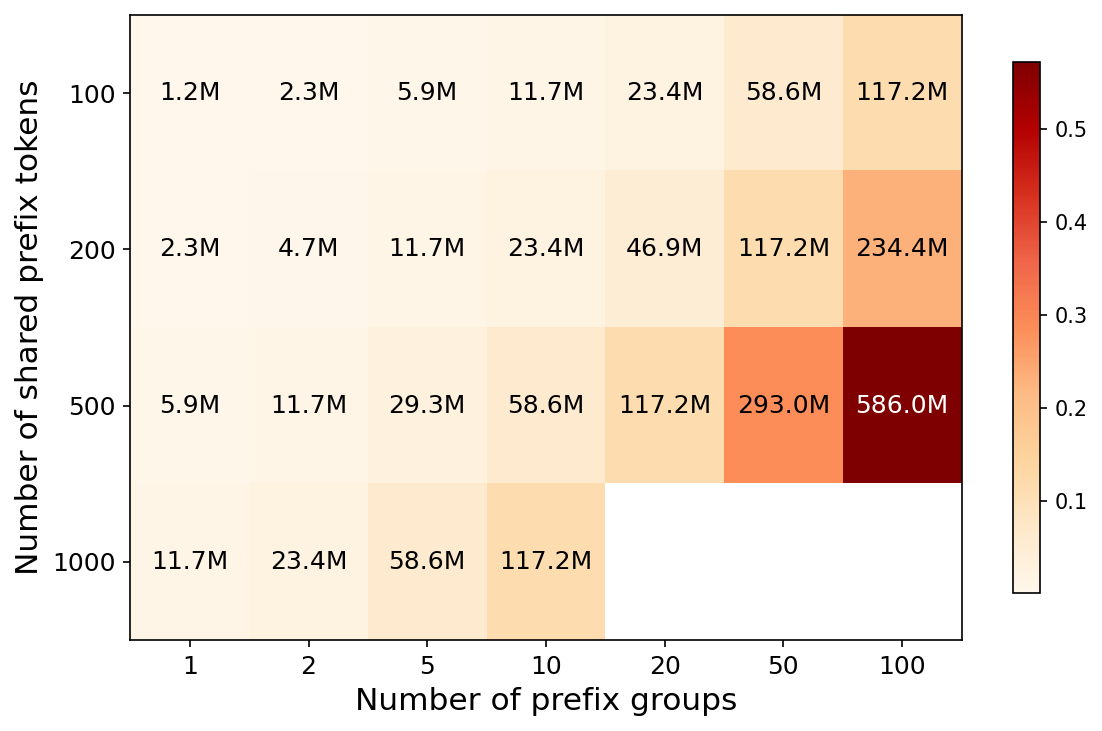
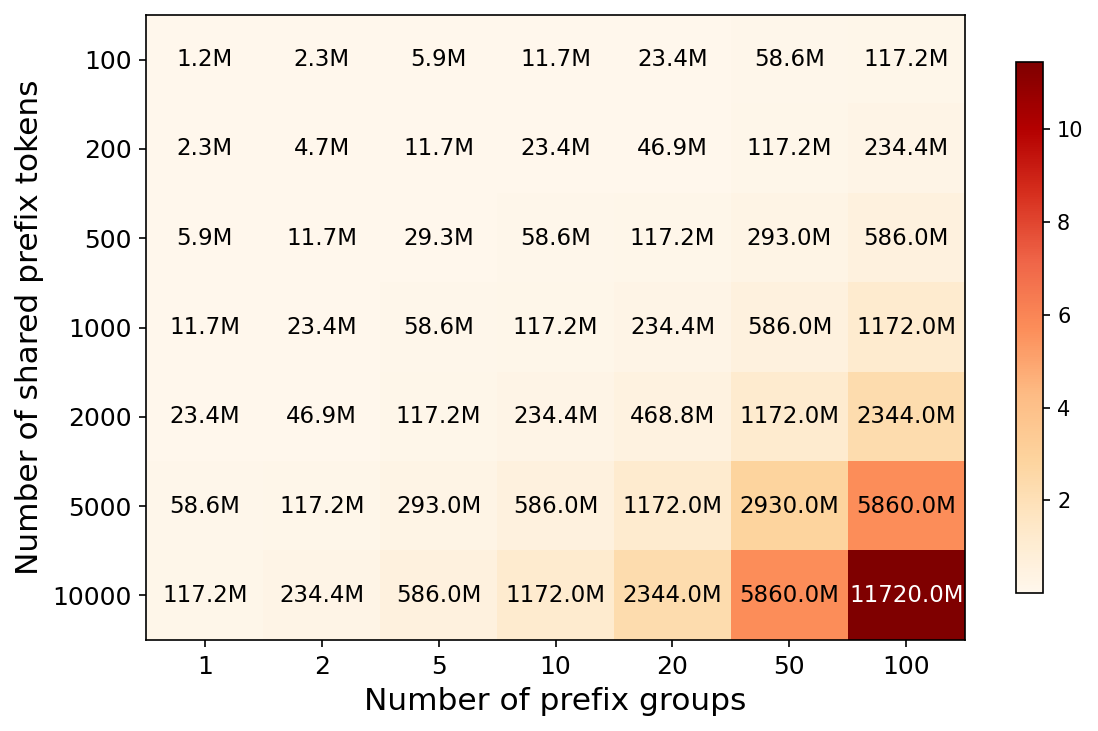
qwen working set plots

diff --git a/code/vllm/qwen_working_set_theory_logs/plot.py b/code/vllm/qwen_working_set_theory_logs/plot.py
@@ -96,7 +96,7 @@ def draw_heatmap(mat, title, fmt, cmap, outfile):
                 norm_v = (v - np.nanmin(mat)) / (np.nanmax(mat) - np.nanmin(mat) + 1e-9)
                 txt_color = "white" if norm_v > 0.55 else "black"
                 ax.text(j, i, fmt(v), ha="center", va="center",
-                        fontsize=12, color=txt_color, fontweight="500")
+                        fontsize=11, color=txt_color, fontweight="500")
 
     plt.colorbar(im, ax=ax, shrink=0.85)
     plt.tight_layout()
